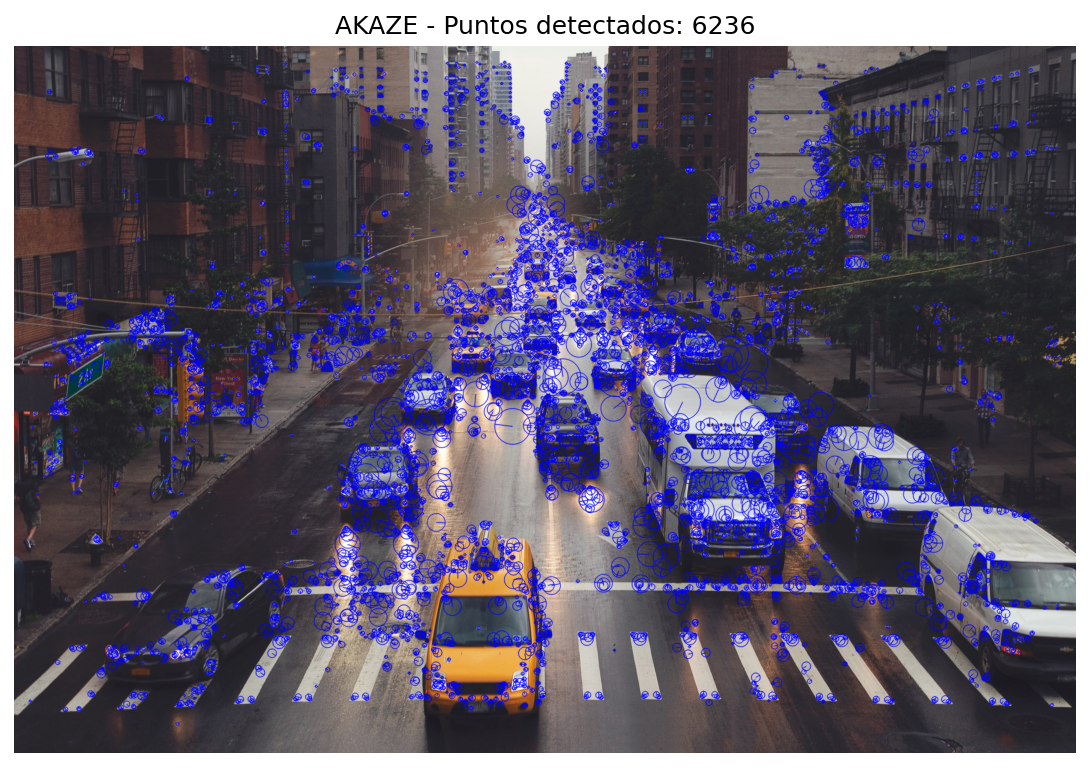
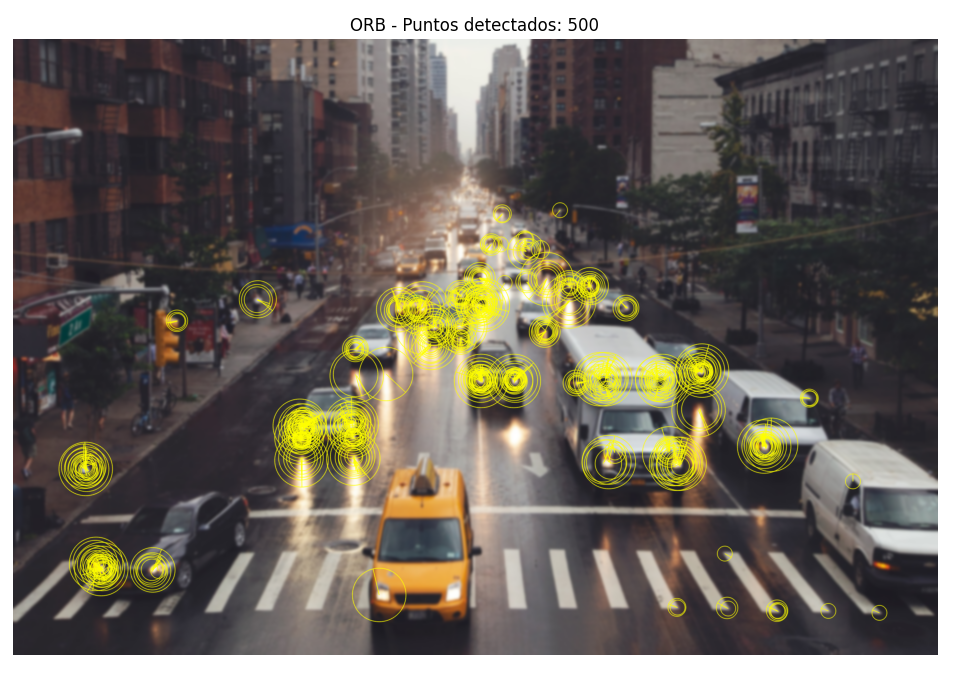
correccion de algoritmos

diff --git a/main.py b/main.py
@@ -1,40 +1,100 @@
 import cv2
 import matplotlib.pyplot as plt
-
+#-----------------------------------------------------
+# Cargar imagen
 img = cv2.imread("ciudad.jpg")
 img_rgb = cv2.cvtColor(img, cv2.COLOR_BGR2RGB)
 
-plt.imshow(img_rgb)
-plt.title("Imagen original")
-plt.axis("off")
-plt.show()
+#-----------------------------------------------------
+# Aplicar filtro gaussiano
+img_blur = cv2.GaussianBlur(img, (15, 15), 0)
+img_blur_rgb = cv2.cvtColor(img_blur, cv2.COLOR_BGR2RGB)
 
+#-----------------------------------------------------
+# Aplicar SIFT
+sift = cv2.SIFT_create()
+kp_sift, des_sift = sift.detectAndCompute(img_blur, None)
 
-#--------------------------------------
-#ALGORITMO ORB (Oriented FAST and Rotated BRIEF)
-orb = cv2.ORB_create()
-kp, des = orb.detectAndCompute(img, None)
-
-img_kp = cv2.drawKeypoints(
-    img_rgb,
-    kp,
+img_sift = cv2.drawKeypoints(
+    img_blur_rgb,
+    kp_sift,
     None,
     color=(0, 255, 0),
     flags=cv2.DRAW_MATCHES_FLAGS_DRAW_RICH_KEYPOINTS
 )
 
-plt.figure(figsize=(8,5))
-plt.imshow(img_kp)
-plt.title(f"ORB - Puntos detectados: {len(kp)}")
+#-----------------------------------------------------
+# Mostrar todo
+plt.figure(figsize=(18, 6))
+
+plt.subplot(1, 3, 1)
+plt.imshow(img_rgb)
+plt.title("Imagen original")
+plt.axis("off")
+
+plt.subplot(1, 3, 2)
+plt.imshow(img_blur_rgb)
+plt.title("Filtro gaussiano")
+plt.axis("off")
+
+plt.subplot(1, 3, 3)
+plt.imshow(img_sift)
+plt.title(f"SIFT - Puntos detectados: {len(kp_sift)}")
+plt.axis("off")
+
+plt.show()
+
+print("Puntos detectados por SIFT:", len(kp_sift))
+
+#-----------------------------------------------------
+# Probar SURF
+try:
+    surf = cv2.xfeatures2d.SURF_create()
+    kp_surf, des_surf = surf.detectAndCompute(img_blur, None)
+
+    img_surf = cv2.drawKeypoints(
+        img_blur_rgb,
+    kp_surf,
+        None,
+        color=(255, 0, 0),
+        flags=cv2.DRAW_MATCHES_FLAGS_DRAW_RICH_KEYPOINTS
+    )
+
+    plt.figure(figsize=(12, 8))
+    plt.imshow(img_surf)
+    plt.title(f"SURF - Puntos detectados: {len(kp_surf)}")
+    plt.axis("off")
+    plt.show()
+
+    print("Puntos detectados por SURF:", len(kp_surf))
+
+except Exception as e:
+    print("SURF no se pudo ejecutar")
+    print("Error:", e)
+
+#-----------------------------------------------------
+# ORB
+orb = cv2.ORB_create()
+kp_orb, des_orb = orb.detectAndCompute(img_blur, None)
+
+img_orb = cv2.drawKeypoints(
+    img_blur_rgb,
+    kp_orb,
+    None,
+    color=(255, 255, 0),
+    flags=cv2.DRAW_MATCHES_FLAGS_DRAW_RICH_KEYPOINTS
+)
+
+plt.figure(figsize=(12, 8))
+plt.imshow(img_orb)
+plt.title(f"ORB - Puntos detectados: {len(kp_orb)}")
 plt.axis("off")
 plt.show()
 
-print("Puntos detectados por ORB:", len(kp))
+print("Puntos detectados por ORB:", len(kp_orb))
 
-
-
-#-------------------------------------
-#ALGORITMO BRISK (Binary Robust Invariant Scalable Keypoints)
+#-----------------------------------------------------
+# BRISK
 brisk = cv2.BRISK_create()
 kp_brisk, des_brisk = brisk.detectAndCompute(img, None)
 
@@ -46,7 +106,7 @@ img_brisk = cv2.drawKeypoints(
     flags=cv2.DRAW_MATCHES_FLAGS_DRAW_RICH_KEYPOINTS
 )
 
-plt.figure(figsize=(8,5))
+plt.figure(figsize=(12,8))
 plt.imshow(img_brisk)
 plt.title(f"BRISK - Puntos detectados: {len(kp_brisk)}")
 plt.axis("off")
@@ -54,9 +114,8 @@ plt.show()
 
 print("Puntos detectados por BRISK:", len(kp_brisk))
 
-
-#--------------------------------------
-#ALGORITMO AKAZE (Accelerated-KAZE)
+#-----------------------------------------------------
+# AKAZE
 akaze = cv2.AKAZE_create()
 kp_akaze, des_akaze = akaze.detectAndCompute(img, None)
 

diff --git a/README.md b/README.md
@@ -1,33 +1,63 @@
-# Práctica de Laboratorio: Reconocimiento de Características en Imágenes
+# Práctica de Laboratorio: Detección de Características en Imágenes
 
-## Contextualización
+##  Contextualización
 
-En esta práctica se desarrolló un ejercicio de visión por computadora enfocado en la detección de características dentro de imágenes digitales. Este tipo de procesamiento es fundamental en áreas como la realidad aumentada, la inteligencia artificial y las interfaces inteligentes.
+En esta práctica se desarrolló un ejercicio de visión por computadora enfocado en la detección de características en imágenes digitales. Este tipo de procesamiento es fundamental en aplicaciones como la realidad aumentada, reconocimiento de objetos e interfaces inteligentes. Se aplicó un filtro gaussiano como etapa de preprocesamiento con el objetivo de reducir el ruido de la imagen y mejorar la calidad en la detección de características. Posteriormente, se implementaron algoritmos de detección de puntos clave como SIFT, SURF y ORB, con el fin de analizar su comportamiento y comparar su desempeño en la identificación de características relevantes dentro de la imagen.
 
-El objetivo principal fue analizar cómo diferentes algoritmos permiten a un sistema identificar puntos clave en una imagen, simulando el funcionamiento de tecnologías modernas que reconocen objetos, patrones y entornos.
+---
 
-## Objetivo
+##  Objetivo
 
-Comparar el funcionamiento de tres algoritmos de detección de características (ORB, BRISK y AKAZE) aplicados a una imagen seleccionada, evaluando la cantidad de puntos detectados y su comportamiento.
+Comparar el funcionamiento de diferentes algoritmos de detección de características (SIFT, SURF y ORB) aplicados a una imagen, evaluando su desempeño en términos de cantidad de puntos detectados, precisión y eficiencia.
 
-## Algoritmos utilizados
+---
 
-### 🔸 ORB (Oriented FAST and Rotated BRIEF)
-Es un algoritmo eficiente y rápido para la detección de puntos clave en imágenes. ORB combina el detector FAST y el descriptor BRIEF, permitiendo identificar características relevantes como esquinas y bordes. Es ampliamente utilizado en aplicaciones en tiempo real debido a su bajo costo computacional.
+##  Algoritmos utilizados
+
+### 🔸 Filtro Gaussiano
+El filtro gaussiano es una técnica de procesamiento de imágenes utilizada para suavizar la imagen y reducir el ruido. Esto permite mejorar la detección de características, evitando que los algoritmos identifiquen detalles irrelevantes.
 
 ![alt text](image.png)
 
+---
 
-### 🔸 BRISK (Binary Robust Invariant Scalable Keypoints)
-BRISK es un algoritmo que detecta una gran cantidad de puntos clave en una imagen. Se caracteriza por ser más sensible a los detalles, lo que permite identificar muchas más características, aunque puede generar saturación visual y mayor consumo de recursos.
+### 🔸 SIFT (Scale-Invariant Feature Transform)
+SIFT es un algoritmo robusto que detecta puntos clave invariantes a escala y rotación. Es altamente preciso y permite identificar características importantes incluso con cambios de iluminación o tamaño.
 
 ![alt text](image-1.png)
 
-### 🔸 AKAZE (Accelerated KAZE)
-AKAZE es un algoritmo que ofrece un equilibrio entre precisión y rendimiento. Detecta una cantidad moderada de puntos clave, manteniendo buena estabilidad frente a cambios en la imagen. Es útil cuando se requiere un balance entre velocidad y calidad de detección.
+---
+
+### 🔸 SURF (Speeded-Up Robust Features)
+SURF es una versión optimizada de SIFT que busca mejorar la velocidad de procesamiento. Sin embargo, no se pudo ejecutar en esta práctica debido a restricciones de licencia en OpenCV, lo que limita su disponibilidad en algunas instalaciones.
+
+---
+
+### 🔸 ORB (Oriented FAST and Rotated BRIEF)
+ORB es un algoritmo eficiente y rápido que combina técnicas de detección y descripción de características. Es ampliamente utilizado en aplicaciones en tiempo real debido a su bajo costo computacional.
 
 ![alt text](image-2.png)
 
+---
 
-El desarrollo de la práctica se realizó en Python utilizando la librería OpenCV para el procesamiento de imágenes y Matplotlib para la visualización de resultados.
+### 🔸 BRISK (Binary Robust Invariant Scalable Keypoints)
+BRISK detecta una gran cantidad de puntos clave, siendo muy sensible a los detalles de la imagen. Puede generar saturación visual debido a la gran cantidad de características detectadas.
 
+![alt text](image-3.png)
+
+---
+
+### 🔸 AKAZE (Accelerated KAZE)
+AKAZE es un algoritmo que ofrece un equilibrio entre precisión y rendimiento, detectando una cantidad moderada de puntos clave con buena estabilidad.
+
+![alt text](image-4.png)
+
+---
+
+###  Importación de librerías
+
+```python
+import cv2
+import matplotlib.pyplot as plt
+
+La práctica permitió comprender cómo diferentes algoritmos de visión por computador detectan características en imágenes. Se evidenció que la elección del algoritmo depende del balance entre precisión y rendimiento, siendo SIFT más preciso y ORB más eficiente. Además, se comprobó la importancia del preprocesamiento mediante el filtro gaussiano para mejorar los resultados de detección.
